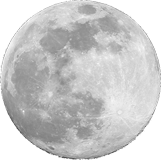
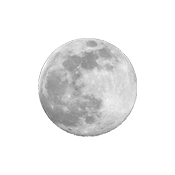
new sun moon

diff --git a/GameLoader.js b/GameLoader.js
@@ -10,7 +10,7 @@ GameLoader.prototype.constructor = GameLoader;
  * @param {Object} callback
  */
 GameLoader.prototype.loadAssets = function(callback){
-    var assets = ["assets/bgDay.jpg","assets/bgNight.jpg","assets/cupcakes.json"];
+    var assets = ["assets/bgDay.jpg","assets/bgNight.jpg","assets/cupcakes.json","assets/sun_moon.json"];
     console.log("GameLoader load:", assets);
     this.add(assets);
     this.once('complete',callback);

diff --git a/Game.js b/Game.js
@@ -1,6 +1,8 @@
 console.log("Game loaded");
 function Game(){
     PIXI.Container.call(this);
+
+
 }
 Game.prototype = Object.create(PIXI.Container.prototype);
 Game.prototype.constructor = Game;
